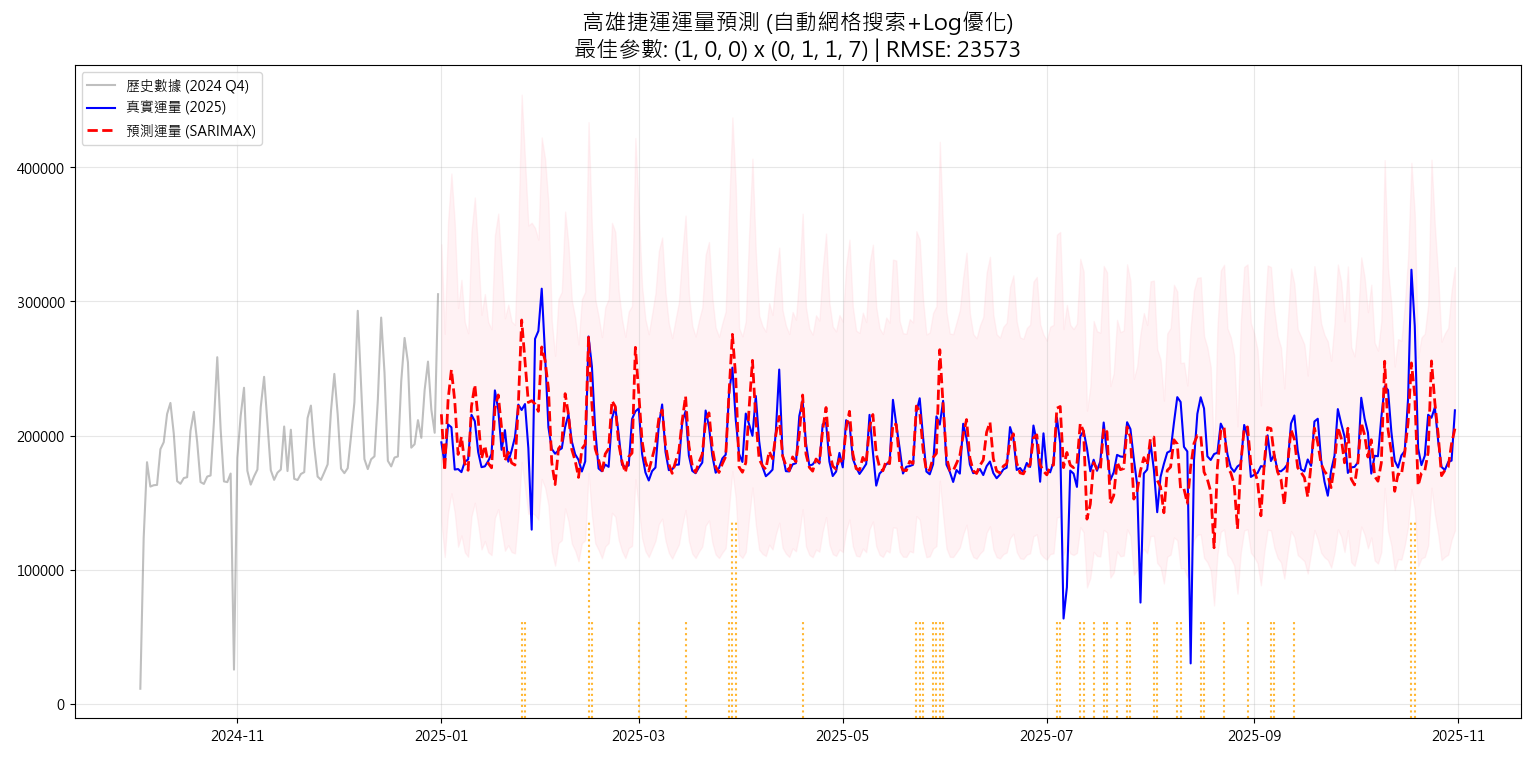
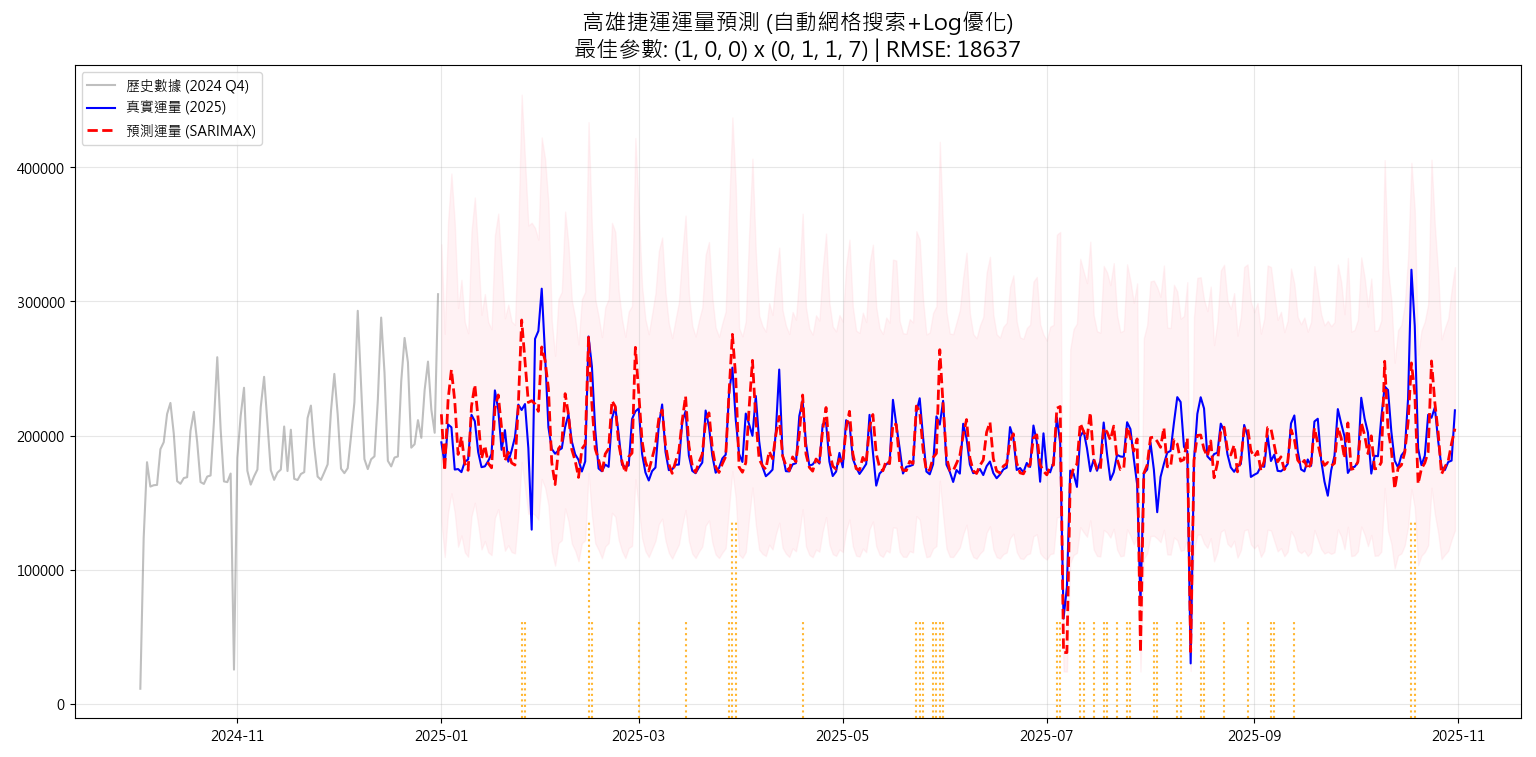
add typhoon

Changed region(s): [[0.6875, 0.4861, 0.9375, 0.8507], [0.75, 0.7596, 0.7812, 0.79], [0.625, 0.0608, 0.6562, 0.0911]]

diff --git a/final.py b/final.py
@@ -250,10 +250,10 @@ def typhoon_features_enhanced(df):
         '2024-07-24', '2024-07-25', '2024-07-26', # 凱米
         '2024-10-01', '2024-10-02', '2024-10-03', '2024-10-04', # 山陀兒
         # 2025
-        #'2025-07-06', '2025-07-07', # 丹娜絲
-        #'2025-07-29', # 西南氣流
-        #'2025-08-13', # 楊柳
-        #'2025-11-12', # 鳳凰
+        '2025-07-06', '2025-07-07', # 丹娜絲
+        '2025-07-29', # 西南氣流
+        '2025-08-13', # 楊柳
+        '2025-11-12', # 鳳凰
     ]
 
     typhoon_dt = pd.to_datetime(typhoon_dates)
